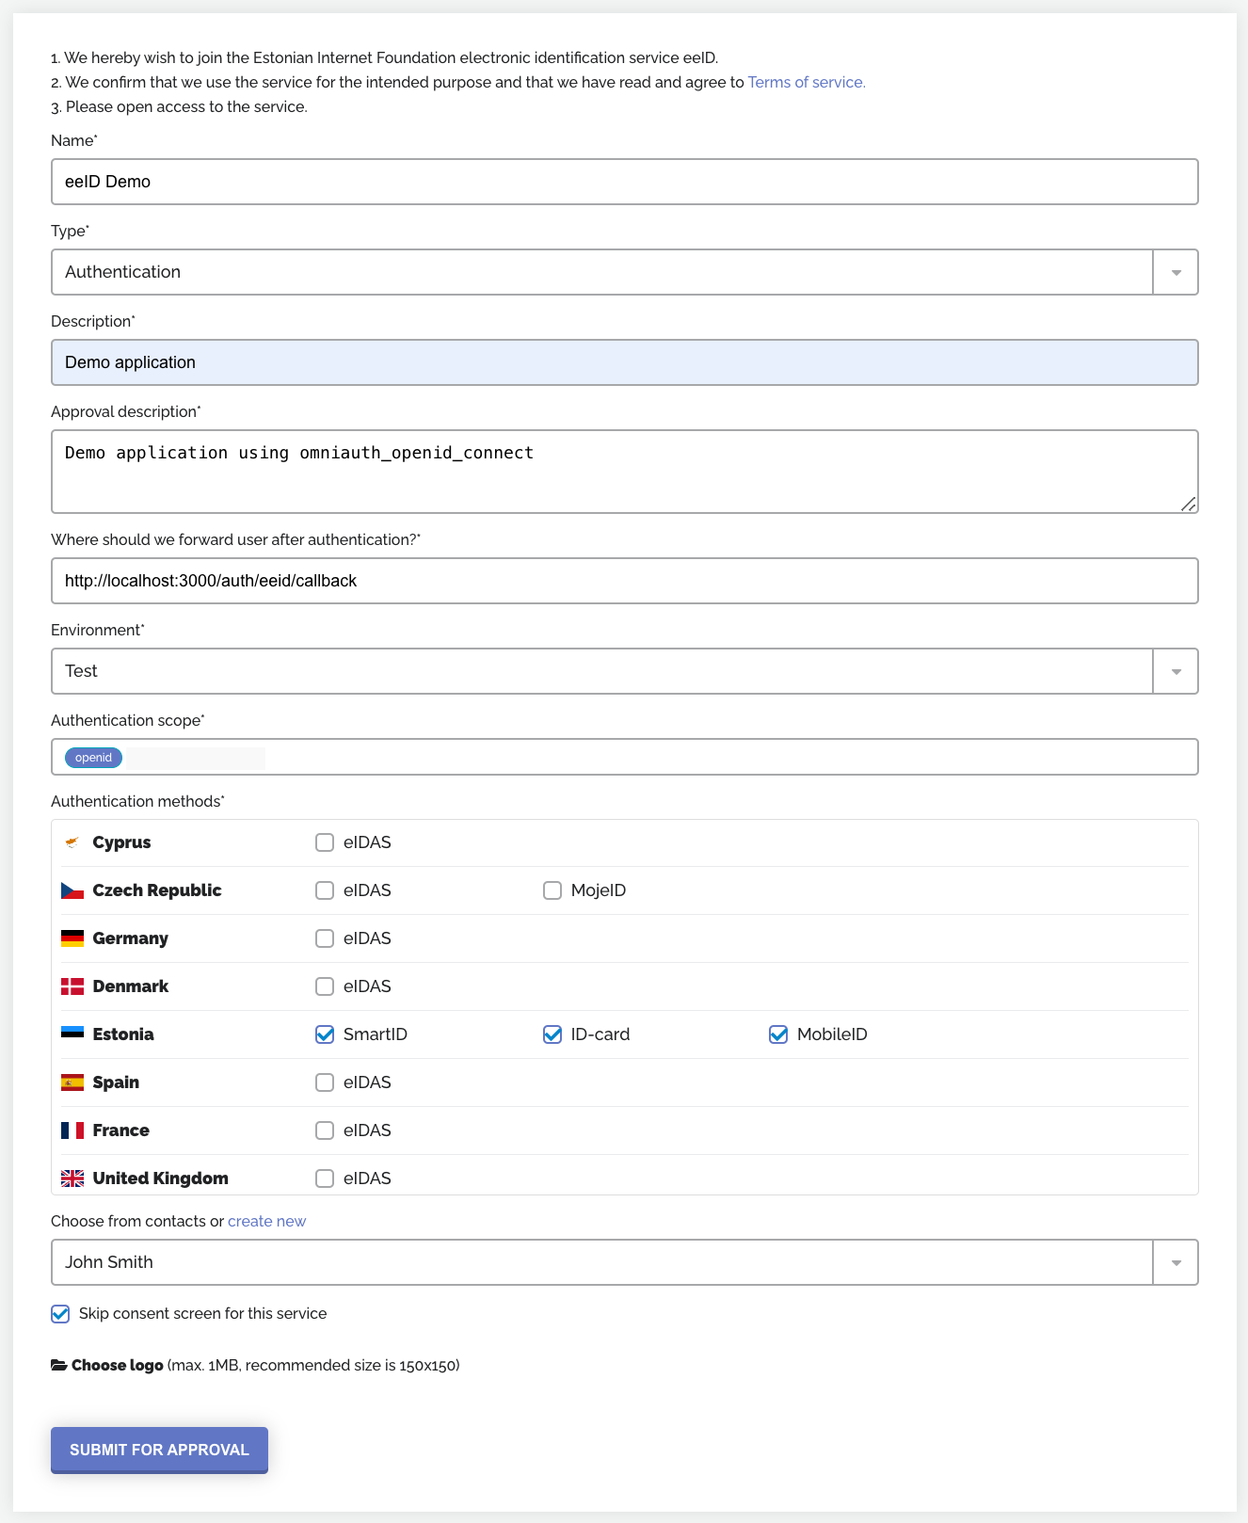
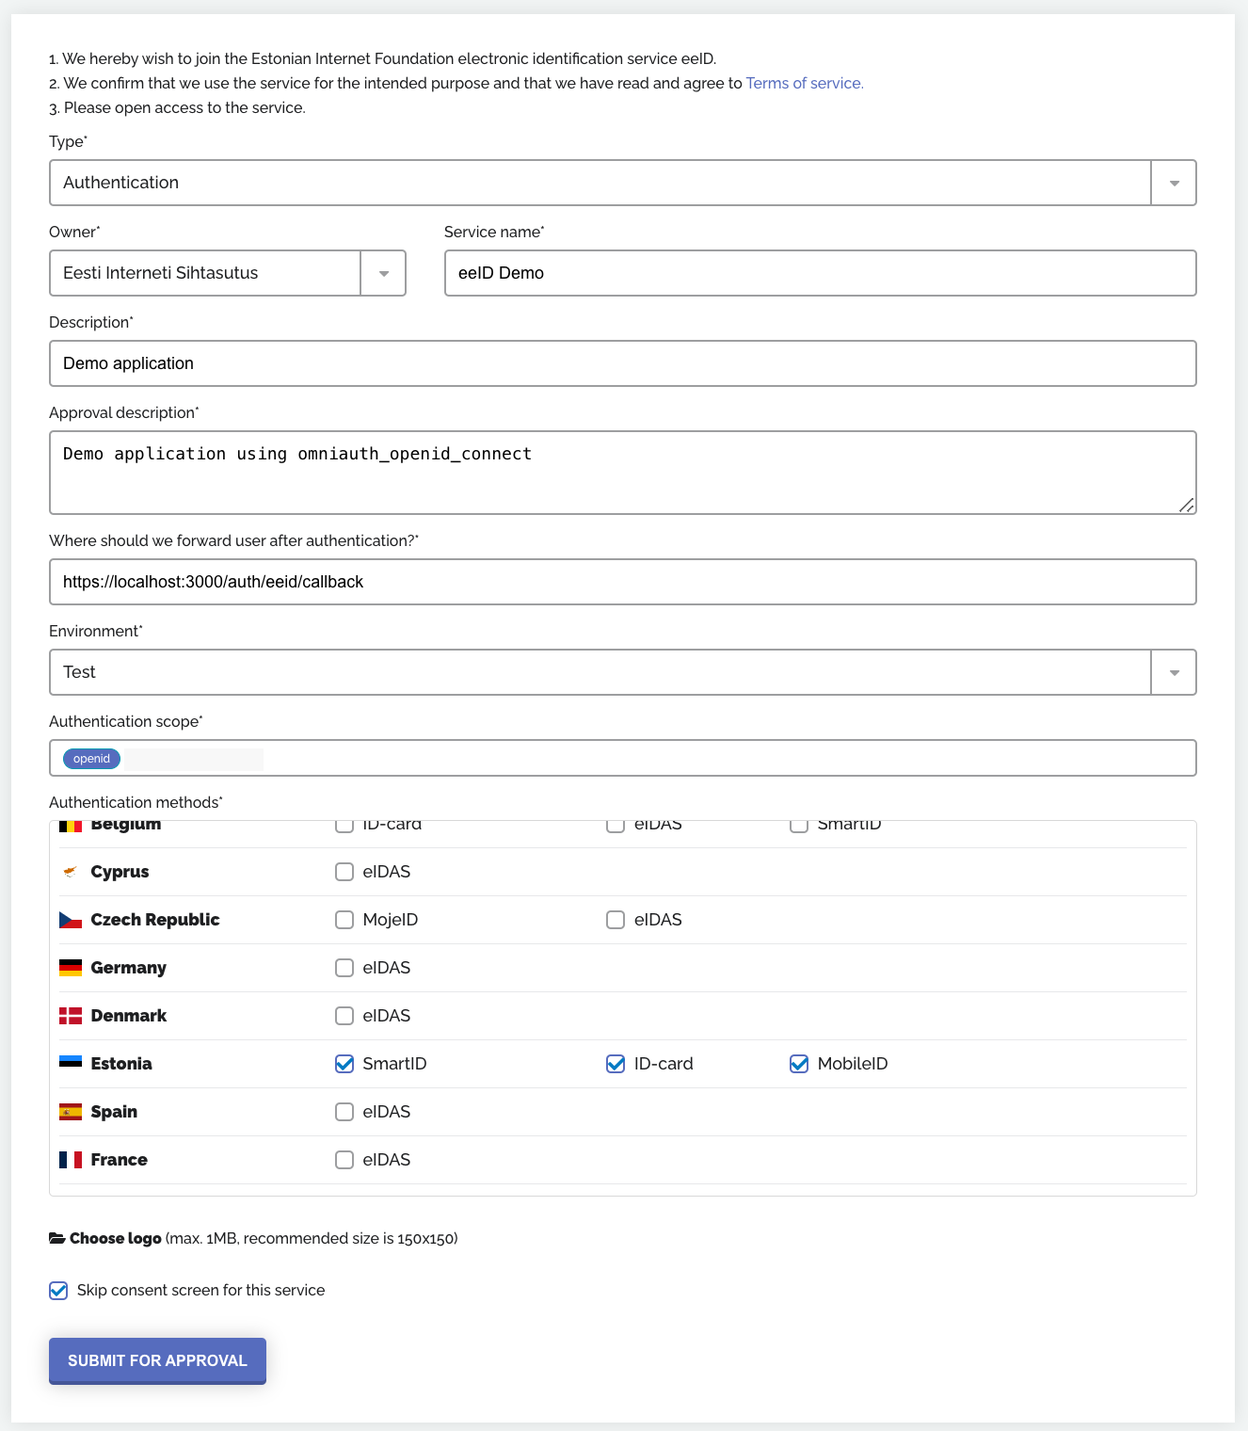
Updated for organizations and passkeys

diff --git a/source/index.html.md b/source/index.html.md
@@ -22,7 +22,7 @@ Welcome to the Estonian Internet Foundation's eeID documentation! This document 
 ### [eeID Authentication Service](#eeid-authentication):
 
 - The authentication service is based on the OpenID Connect protocol, which is an extension of the OAuth 2.0 framework. It provides a standardized method for verifying user identities across various applications and platforms.
-- Users can authenticate using multiple methods, including Mobiil-ID, ID card, Smart-ID, EU-citizen cross-border authentication and FIDO2 Web Authentication (Passkey Authentication). This flexibility allows institutions and private individuals to choose the most suitable authentication method for their needs.
+- Users can authenticate using multiple methods, including Mobiil-ID, ID card, Smart-ID, EU-citizen cross-border authentication and FIDO2 Web Authentication (Passkey Authentication). This flexibility allows organizations and private individuals to choose the most suitable authentication method for their needs.
 - The service issues identity tokens that contain essential user information, enabling applications to confirm identities and manage user access securely.
 
 ### [eeID Identification Service](#eeid-identification):
@@ -33,34 +33,154 @@ Welcome to the Estonian Internet Foundation's eeID documentation! This document 
 
 # OpenID Connect
 
-The eeID is based on the OpenID Connect protocol (OIDC), which is built on top of the OAuth 2.0 authorization framework. It's designed to provide a secure and standardized way to authenticate users and obtain their basic profile information. OIDC is commonly used in applications that require user authentication, such as web and mobile applications.
+The eeID is based on the [OpenID Connect protocol (OIDC)](https://openid.net/developers/how-connect-works/), which is built on top of the [OAuth 2.0](https://oauth.net/2/) authorization framework. It's designed to provide a secure and standardized way to authenticate users and obtain their basic profile information. OIDC is commonly used in applications that require user authentication, such as web and mobile applications.
 
-Limited subset from standards was chosen and some adjustments were made. The main selections and adjustments compared to the full OpenID Connect protocol are the following:
+Limited subset from standards was chosen and some adjustments were made. The main selections and adjustments compared to the full [OpenID Connect protocol](https://openid.net/specs/openid-connect-core-1_0.html) are the following:
 
 - The services support the authorization code flow. The authorization code flow is deemed the most secure option and is thus appropriate for public services.
 - All information about an authenticated user is transferred to the application in an ID token.
-- The eIDAS assurance level is also transferred to the application if it is known (in the `acr` statement).
+- The [eIDAS assurance level](https://ec.europa.eu/digital-building-blocks/sites/display/DIGITAL/eIDAS+Levels+of+Assurance) is also transferred to the application if it is known (in the `acr` statement).
 - The authentication method is selected by the user in the authentication service or by the interfaced client with the scope parameter.
-- Cross-border authentication based on the technical specification of eIDAS.
+- Cross-border authentication based on the technical specification of [eIDAS](https://digital-strategy.ec.europa.eu/en/policies/discover-eidas).
 - Dynamic registration of the client application is not supported. The client application is registered in [eeID manager](https://eeid.ee) by a separate procedure.
 
 # Getting Started
 
-In order to get started you have to sign up and create your first service in the [eeID manager](https://eeid.ee). 
+## Creating an account
 
-1. Add a new contact first. From the main menu select `Contacts` to go to the contacts management view. Click on + Create New Contact and fill in the form.
-![Create New Contact](images/new_contact_form.png)
+To get started with eeID, you'll need to create a free personal account and verify your email address.
+Every person who uses eeID signs in to a user account. Your user account is your identity on eeID and has a personal profile.
 
-2. From the main menu select `Services` to go to the service management view. Click on + Create New Service.
+1. Navigate to [https://eeid.ee/](https://eeid.ee/).
+
+2. You have two options to create an account:
+
+### Option 1: Create Account Form
+
+1. Click `CREATE AN ACCOUNT`.
+2. Fill in the registration form with your:
+   - Email address
+   - Password (must be at least 8 characters)
+   - First name
+   - Last name
+   - Phone number
+   - Country
+3. Accept the Terms and Conditions.
+4. Click `SIGN UP`.
+5. Verify your email address by clicking the link sent to your inbox.
+
+### Option 2: Sign in with eeID Authentication
+
+1. Click `SIGN IN WITH eeID`.
+2. Choose your preferred authentication method:
+   - ID card
+   - Mobile-ID 
+   - Smart-ID
+   - EU citizen authentication
+   - Passkey
+3. Complete the authentication process
+4. After successful authentication, you'll be redirected to a pre-filled registration form containing your:
+   - First name
+   - Last name
+   - Personal identification code
+   - Country
+5. Complete any remaining required fields:
+   - Email address
+   - Phone number
+6. Accept the Terms and Conditions
+7. Click `Create Account`
+8. Verify your email address by clicking the link sent to your inbox.
+
+After creating your account and verifying your email, you can log in and start using eeID services.
+
+## Types of accounts
+
+### User accounts
+
+If you signed up for your own account on eeID, you are using a personal account. Personal accounts represent individual users and have a unique profile with verified identity information. With a personal account, you can:
+
+  - Create and manage your own services
+  - Join or create organizations
+  - Authenticate using various methods (ID card, Mobile-ID, Smart-ID, etc.)
+  - Create and manage passkeys for passwordless authentication
+
+All personal accounts can own an unlimited number of services.
+
+### Organization accounts
+
+Organization accounts enable teams to work together on shared services under a single account. They provide an effective way for businesses, non-profits, and other groups to collectively manage their services.
+
+Like user accounts, organizations can own services. However, you cannot sign in directly to an organization. Instead, each person signs in to their personal user account, and any actions the person takes on organization resources are attributed to their user account. Each user can be a member of multiple organizations.
+
+The users within an organization can be given different roles, which grant different levels of access to the organization and its data:
+
+- **Organization Owner**: Has complete administrative access to the organization, including the ability to edit organization data, add/remove members and manage billing. For security reasons, it's recommended to have at least two organization owners.
+
+- **Organization Member**: The default role with permissions to create and update services and view authentication information.
+
+All organizations can own an unlimited number of services, making them suitable for businesses of any size.
+
+## Creating a new organization
+
+When you create a new organization, it doesn't have any services associated with it. For more information on adding services to your organization, see [Creating a new service](#creating-a-new-service) and [Transferring a service](#transferring-a-service).
+
+1. From the main menu select `Organizations` to go to the organization management view. Click on `+ Create New Organziation`.
+
+2. Follow the prompts to create your organization:
+
+* **Organization name** - enter the name for your organization.
+* **Contact email** - enter the email address that will be used for communications regarding the organization and its services.
+* **Description** - provide a brief description of your organization and its purpose.
+* **URL** - enter your organization's website URL (optional).
+* **Locale** - select the preferred language for communications with your organization.
+
+## Setting your billing info
+
+Your account's billing info is where eeID sends receipts and other billing-related information. You can set up billing information for both personal and organization accounts.
+
+### For personal accounts:
+1. From the main menu select `Account` to go to your profile view
+2. Click `Edit details`
+3. Under `Billing data` fill in the following information:
+   - Billing recipient name*
+   - Billing email address*
+   - IBAN (for automatic payments)
+   - Country*
+   - VAT number (if applicable)
+   - Registration code
+   - Street address
+   - City
+   - Postal code
+
+### For organization accounts:
+1. Navigate to your organization by either:
+   - Selecting `Organizations` from the main menu and clicking the organization name, or
+   - Using the account dropdown menu in the top navigation bar
+2. Click `Account` followed by `Settings`.
+3. Locate the `Billing data` section and complete the required billing information fields.
+
+Fields marked with * are required. Organization owners can edit billing information, while regular members can only view it.
+
+You can also enable automatic balance reloading for both personal and organization accounts to ensure uninterrupted service.
+
+
+## Creating a new service
+
+You can create a new service on your personal account or any organization where you have sufficient permissions.
+
+1. From the main menu select `Services` to go to the service management view. Click on `+ Create New Service`.
+
 ![Create New Service](images/create_new_service.png)
 
-3. Fill in the form
+2. Fill in the form
+
 ![New Service Form](images/new_service_form.png)
 
-4. All the fields must be valid to proceed.
+3. All the fields must be valid to proceed.
 
-* **Name** - enter the name for your service. NB! This will ultimately appear in-front of your customers.
-* **Type** - enter the type of your service (`Authentication` or `Identification`)
+* **Type** - enter the type of your service (`Authentication` or `Identification`).
+* **Owner** - select who will own this service - either your personal account or an organization you belong to. The owner will be responsible for managing the service settings, billing, and access control.
+* **Servce name** - enter the name for your service. NB! This will ultimately appear in-front of your customers.
 * **Description** - provide a brief description of your service. It should be concise, ideally one sentence.
 * **Approval description** - in this field, provide details about what you are building and who your target customers are.
 * **Redirection URL** (`Authentication`) - specify the URL where users should be redirected to after they have been authenticated. If you do not know what you will use, just enter `http://localhost/callback` for now. The value can be changed later if needed. NB! Ensure that redirect URL uses the HTTPS protocol. HTTP is only permitted for local development environments (e.g., localhost).
@@ -68,7 +188,6 @@ In order to get started you have to sign up and create your first service in the
 * **Environment** - indicate the environment in which you will be using the service. `Test` is free and used for testing purposes.
 * **Authentication scope** - choose the authentication scope you wish to support. The following scopes are supported: `openid`, `webauthn`, `phone` and `email`. NB! `idcard`, `mid`, `smartid` and `eidas` are no longer in use and will be removed.
 * **Authentication methods** - choose the authentication methods you wish to support. You can select one or more methods based on your preferred country.
-* **Contact** - choose an existing contact or create a new one. This contact will be associated with the service, and it might be the point of contact for any communications or notifications regarding the service.
 * **Consent screen** (`Authentication`) - configure it to skip the "consent screen", which is the screen where the user must explicitly agree to giving the service access to their data and allow perform operations on their behalf.
 * **Choose logo** (`Authentication`) - upload a logo for your service.
 * **Submission** - review all the details entered in the form, and if everything is correct, click on `SUBMIT FOR APPROVAL` to submit your service.
@@ -82,6 +201,30 @@ In case there are issues or discrepancies in your application, it might be rejec
 After the review process is completed, you will receive a notification regarding the
 status of your application. This notification will inform you whether your application has
 been approved or rejected.
+
+## Transferring a service
+
+You can transfer services between your personal account and organization accounts. After transferring a service, the new owner will have full administrative access to manage the service's settings and resources. During the transfer process, you have the option to rename the service if desired.
+
+Before transferring a service, ensure you meet these requirements:
+
+- You must be the owner of the service you want to transfer
+- The recipient (user or organization) must have permissions to create services
+- The receiving account cannot have an existing service with the same name
+- You can transfer a service owned by an organization to your personal account or to another organization only if you have an owner role in the source organization
+
+Note that when a service is transferred, all new transactions and authentication records will also be transferred to the new owner.
+
+1. Navigate to the main page of the service.
+
+2. Under your service name, click `Transfer Service`.
+
+3. Select the dropdown menu and click an organization or a user.
+
+4. Optionally, in the "Service name" field, type a new name for the service.
+
+5. Click `Submit`
+
 
 # Authentication scope
 
@@ -107,7 +250,29 @@ By default, the eeID services facilitate the following authentication scope:
 
 * `webauthn` - authentication scope leverages passkeys, a cutting-edge technology that replaces traditional passwords with a more secure and user-friendly approach. Passkeys, as described in [FIDO Alliance's Passkeys 101](https://fidoalliance.org/passkeys-101/), utilize public key cryptography to enable users to authenticate using local authenticators such as biometrics, security keys, or other trusted devices. This method simplifies the authentication process while significantly enhancing security, providing a seamless and secure experience for users across the web.
 
-<b>Creating a WebAuthn Credential through eeID:</b>
+## Passkeys
+
+Passkeys provide a convenient way to streamline future authentications after initial identity verification. They leverage the [WebAuthn](https://en.wikipedia.org/wiki/WebAuthn) standard to allow users to authenticate using their device's built-in security features like fingerprint sensors, facial recognition, or PIN codes.
+
+### What are Passkeys in eeID?
+After authenticating through eeID's primary authentication methods (like Mobile-ID, Smart-ID, or ID-card), users can create a passkey - a cryptographic credential tied to their verified identity. This passkey can then be used for subsequent authentications from the same device, making the process faster while maintaining security. The passkey works by creating a cryptographic key pair where the private key stays securely on the user's device.
+
+### Key Benefits
+- **Streamlined Re-authentication**: Once identity is verified through eeID's primary methods, subsequent logins can be completed quickly using device biometrics or PIN
+- **Device-Specific Security**: Passkeys are securely stored on user devices and can't be phished or compromised
+- **Convenience**: Eliminates the need to repeatedly use primary authentication methods while maintaining security
+- **Multi-device Support**: Passkeys can be synchronized across a user's trusted devices through cloud services
+- **Enhanced User Experience**: Provides a faster authentication option while preserving eeID's strong identity verification
+
+### How They Work with eeID
+1. User first authenticates using a primary eeID method to verify their identity
+2. User can then create a passkey for that device
+3. For future authentications from that device, user can choose to use their passkey
+4. Authentication is completed by using the device's built-in authenticator (fingerprint, face, or PIN)
+
+Passkeys complement eeID's existing authentication methods by providing a secure and convenient option for subsequent authentications while maintaining the high security standards required for identity verification.
+
+## Creating a passkey
 
 1. <b>Initial Authentication</b>
 <br>Before creating a WebAuthn credential (passkey), users must first verify their identity using an authentication method provided by the eeID service or, if unavailable, an AI-powered identity verification platform ([Veriff](https://www.veriff.com/)). This step is crucial for ensuring the user's identity is securely verified through a recognized and trusted authentication method.
@@ -120,25 +285,56 @@ trusted identity framework for the user.
 3. <b>Creating the Webauthn Credential (passkey)</b>
 <br>Following the successful authentication through eeID,
 the user can proceed to create a passkey. This process involves:
-    * <b>Registering a Local Authenticator.</b> The user will register a local authenticator,
-    such as a biometric identifier (fingerprint, facial recognition, etc.) or a security key.
-    * <b>Public Key Cryptography.</b> The WebAuthn method leverages public key cryptography,
-    where a private key is stored on the user's local device, and a public key is
-    stored on the server. This setup ensures a secure and password-less authentication process.
-    * <b>Credential ID.</b> Upon successful registration, a unique Credential ID is generated, which will be used for future authentications.
+  * <b>Registering a Local Authenticator.</b> The user will register a local authenticator,
+  such as a biometric identifier (fingerprint, facial recognition, etc.) or a security key.
+  * <b>Public Key Cryptography.</b> The WebAuthn method leverages public key cryptography,
+  where a private key is stored on the user's local device, and a public key is
+  stored on the server. This setup ensures a secure and password-less authentication process.
+  * <b>Credential ID.</b> Upon successful registration, a unique Credential ID is generated, which will be used for future authentications.
 
-<br>
 4. <b>Future Authentications</b>
 <br>With the passkey created, the user can now use this method for future authentications. When logging in:
+  * The user will be prompted to authenticate using their local authenticator.
+  * The server verifies the authentication using the stored public key, ensuring a secure and swift login process.
 
-    * The user will be prompted to authenticate using their local authenticator.
+## Deleting a passkey
 
-    * The server verifies the authentication using the stored public key, ensuring a secure and swift login process.
+It's important to manage your passkeys securely. You may want to delete a passkey if:
 
-Creating a passkey through the eeID service not only enhances the security of
-online transactions but also offers a user-friendly authentication experience.
-It represents a forward step in secure, password-less digital authentication,
-promoting ease of use without compromising on security.
+- Your device has been lost or stolen
+- You no longer use a particular device
+- You suspect unauthorized access
+- You're selling or giving away a device
+- You want to refresh your security credentials
+
+There are two ways to remove passkeys, each affecting different parts of the credential pair:
+
+1. <b>Device-specific Deletion</b>
+<br>This removes the private key stored on your device. You should do this before selling/disposing of devices:
+  - For Windows: Navigate to Settings > Accounts > Passkeys to manage your passkeys. For detailed instructions, see the [Windows Passkey Management Guide](https://support.microsoft.com/en-us/windows/manage-your-passkeys-in-windows-6a70599a-25e1-4461-86be-d67d1023c69f)
+  - For macOS: Go to the Passwords app on your Mac. For detailed instructions, see the [macOS Passkey Management Guide](https://support.apple.com/guide/passwords/remove-mchl77e2cb66/mac)
+  - For iOS: Go to the Passwords app. For detailed instructions, see the [iOS Passkey Management Guide](https://support.apple.com/en-us/104955)
+  - For Android: Go to Google Account > Security > Passkeys and security keys. For detailed instructions, see the [Android Passkey Management Guide](https://support.google.com/accounts/answer/13548313?hl=en)
+  - For Chrome: Go to Settings > Autofill and passwords > Passkeys. For detailed instructions, see the [Chrome Passkey Management Guide](https://support.google.com/chrome/answer/13168025?hl=en)
+<br>
+<br>
+2. <b>eeID Manager Deletion</b>
+<br>This removes the public key stored on eeID servers, effectively invalidating the credential pair:
+  - Log in or create a personal account in [eeID Manager](https://eeid.ee)
+  - Navigate to your Account page
+  - Under "Sign in and security", click `Show Passkeys`
+  - Find the passkey you want to remove and click the delete button
+  - Confirm the deletion
+
+For maximum security when compromised:
+
+1. Delete the passkey from your device to remove the private key
+2. Delete it from eeID Manager to remove the public key
+3. Create a new passkey after authenticating with a primary method
+
+Note that deleting a passkey means you'll need to use a primary authentication method (like Mobile-ID or Smart-ID) for your next sign-in from that device. This is a security measure to ensure only you can create new passkeys for your account.
+
+If you suspect unauthorized access, you should delete the passkey immediately through eeID Manager even if you don't have access to the device. This will prevent anyone from using that passkey to access your account, as the public-private key pair must both be valid for authentication to succeed.
 
 # eeID Authentication
 
@@ -1190,8 +1386,7 @@ To begin using the eeID Identification Service, follow these steps:
 1. **Sign Up**: Create an account on the [eeID Manager](https://eeid.ee).
 2. **Create a Service**:
    - Navigate to the `Services` section in the eeID Manager.
-   - Click on + Create New Service, select `Identification` type and fill in the required details:
-   ![New Identification Service](images/new_identification_service_form.png)
+   - Click on `+ Create New Service`, select `Identification` type and fill in the required details, see [Creating a new service](#creating-a-new-service).
 3. **Submit the service for approval**
 
 ## Example Workflow
